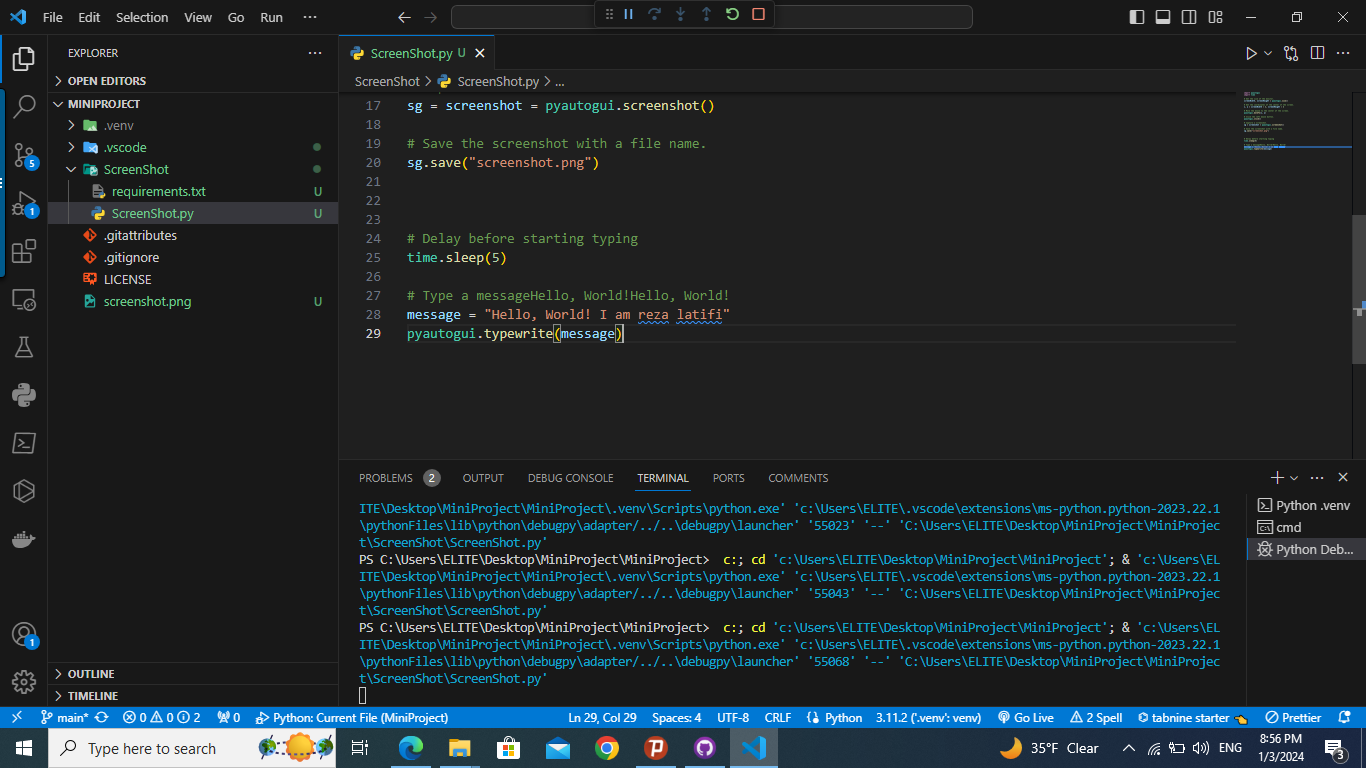
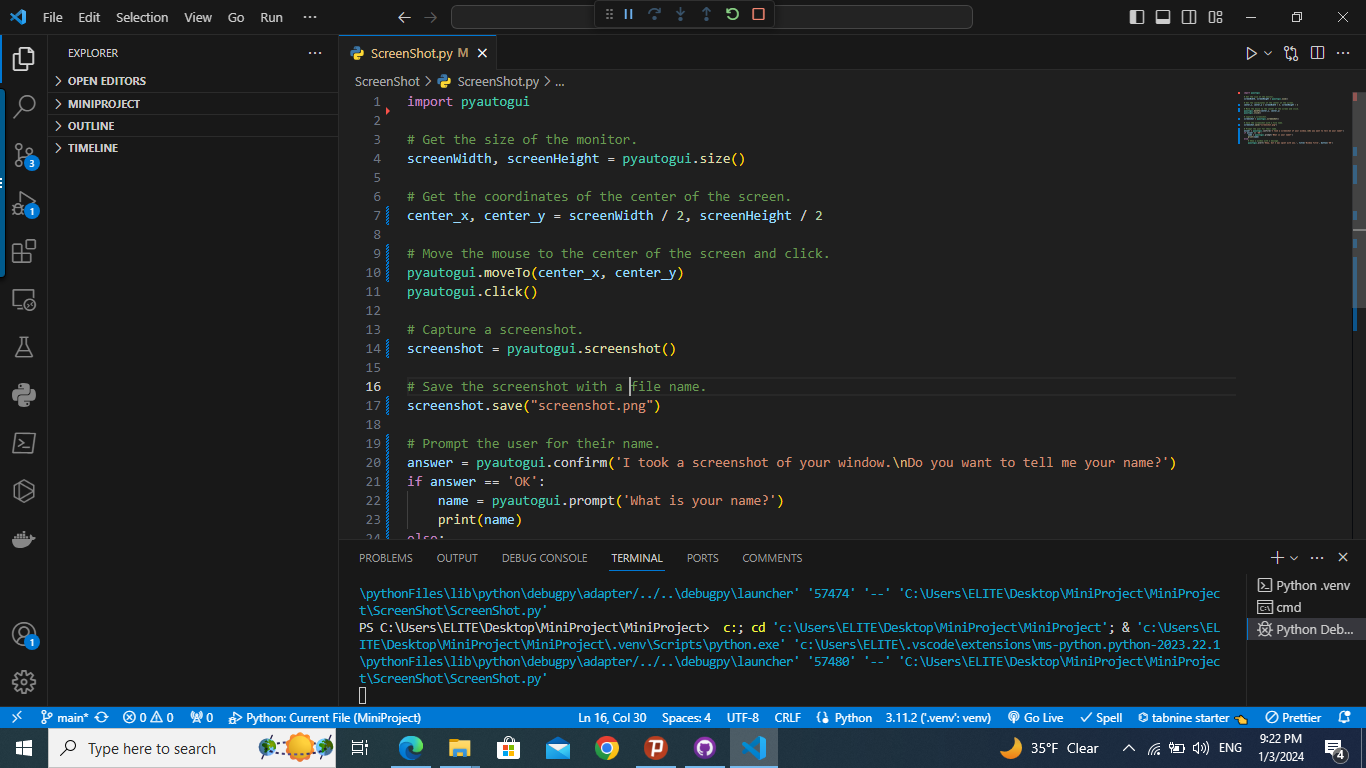
screenshot V"1.1"
I change my program to show alert window

diff --git a/ScreenShot/ScreenShot.py b/ScreenShot/ScreenShot.py
@@ -1,29 +1,26 @@
 import pyautogui
-import time
 
 # Get the size of the monitor.
 screenWidth, screenHeight = pyautogui.size()
 
 # Get the coordinates of the center of the screen.
-x, y = screenWidth / 2, screenHeight / 2
+center_x, center_y = screenWidth / 2, screenHeight / 2
 
-# Move the mouse to the center of the screen.
-pyautogui.moveTo(x, y)
-
-# Click the left mouse button.
+# Move the mouse to the center of the screen and click.
+pyautogui.moveTo(center_x, center_y)
 pyautogui.click()
 
 # Capture a screenshot.
-sg = screenshot = pyautogui.screenshot()
+screenshot = pyautogui.screenshot()
 
 # Save the screenshot with a file name.
-sg.save("screenshot.png")
+screenshot.save("screenshot.png")
 
-
-
-# Delay before starting typing
-time.sleep(5)
-
-# Type a messageHello, World!Hello, World!
-message = "Hello, World! I am reza latifi"
-pyautogui.typewrite(message)
+# Prompt the user for their name.
+answer = pyautogui.confirm('I took a screenshot of your window.\nDo you want to tell me your name?')
+if answer == 'OK':
+    name = pyautogui.prompt('What is your name?')
+    print(name)
+else:
+    # Show a window with a message.
+    pyautogui.alert('Okay, but I was upset with you.', title='Window Title', button='OK')
